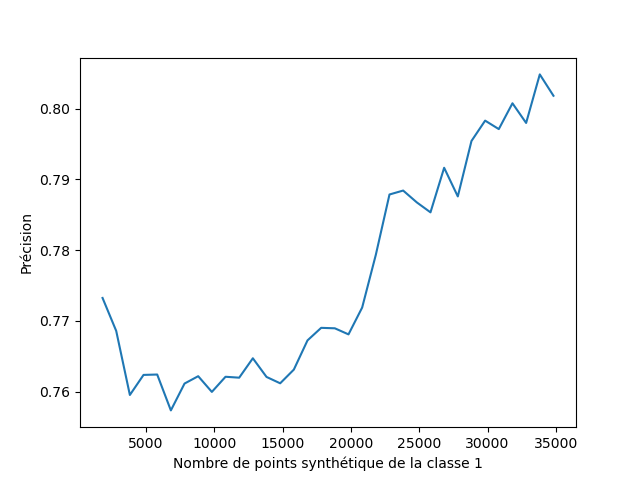
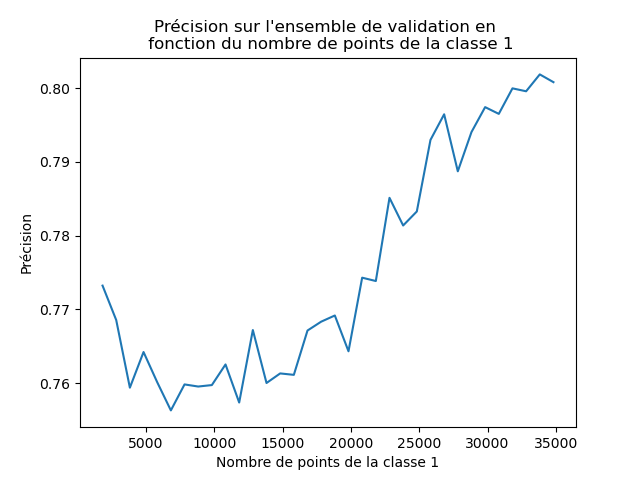
final final final commit

diff --git a/Bayes.py b/Bayes.py
@@ -178,7 +178,8 @@ for i in range(1825,35179,1000):
      #   100 * get_accuracy(X_val, Y_val)))
 plt.figure()
 plt.plot(nbClass,preci)
-plt.xlabel("Nombre de points synthétique de la classe 1")
+plt.title( "Précision sur l'ensemble de validation en \n fonction du nombre de points de la classe 1")
+plt.xlabel("Nombre de points de la classe 1")
 plt.ylabel("Précision")
 plt.savefig("FigureBestoverSamplingClasse1Indep.png")
 #plt.show()
@@ -257,8 +258,9 @@ for i in range(7756,35179,1000):
     #    100 * get_accuracy(X_val, Y_val)))
 plt.figure()
 plt.plot(nbClass,preci)
-plt.xlabel("Nombre de points synthétique de la classe 2")
-plt.ylabel("Precision")
+plt.title( "Précision sur l'ensemble de validation en \n fonction du nombre de points de la classe 2")
+plt.xlabel("Nombre de points de la classe 2")
+plt.ylabel("Précision")
 plt.savefig("FigureBestoverSamplingClasse2Indep.png")
 #plt.show()
 
